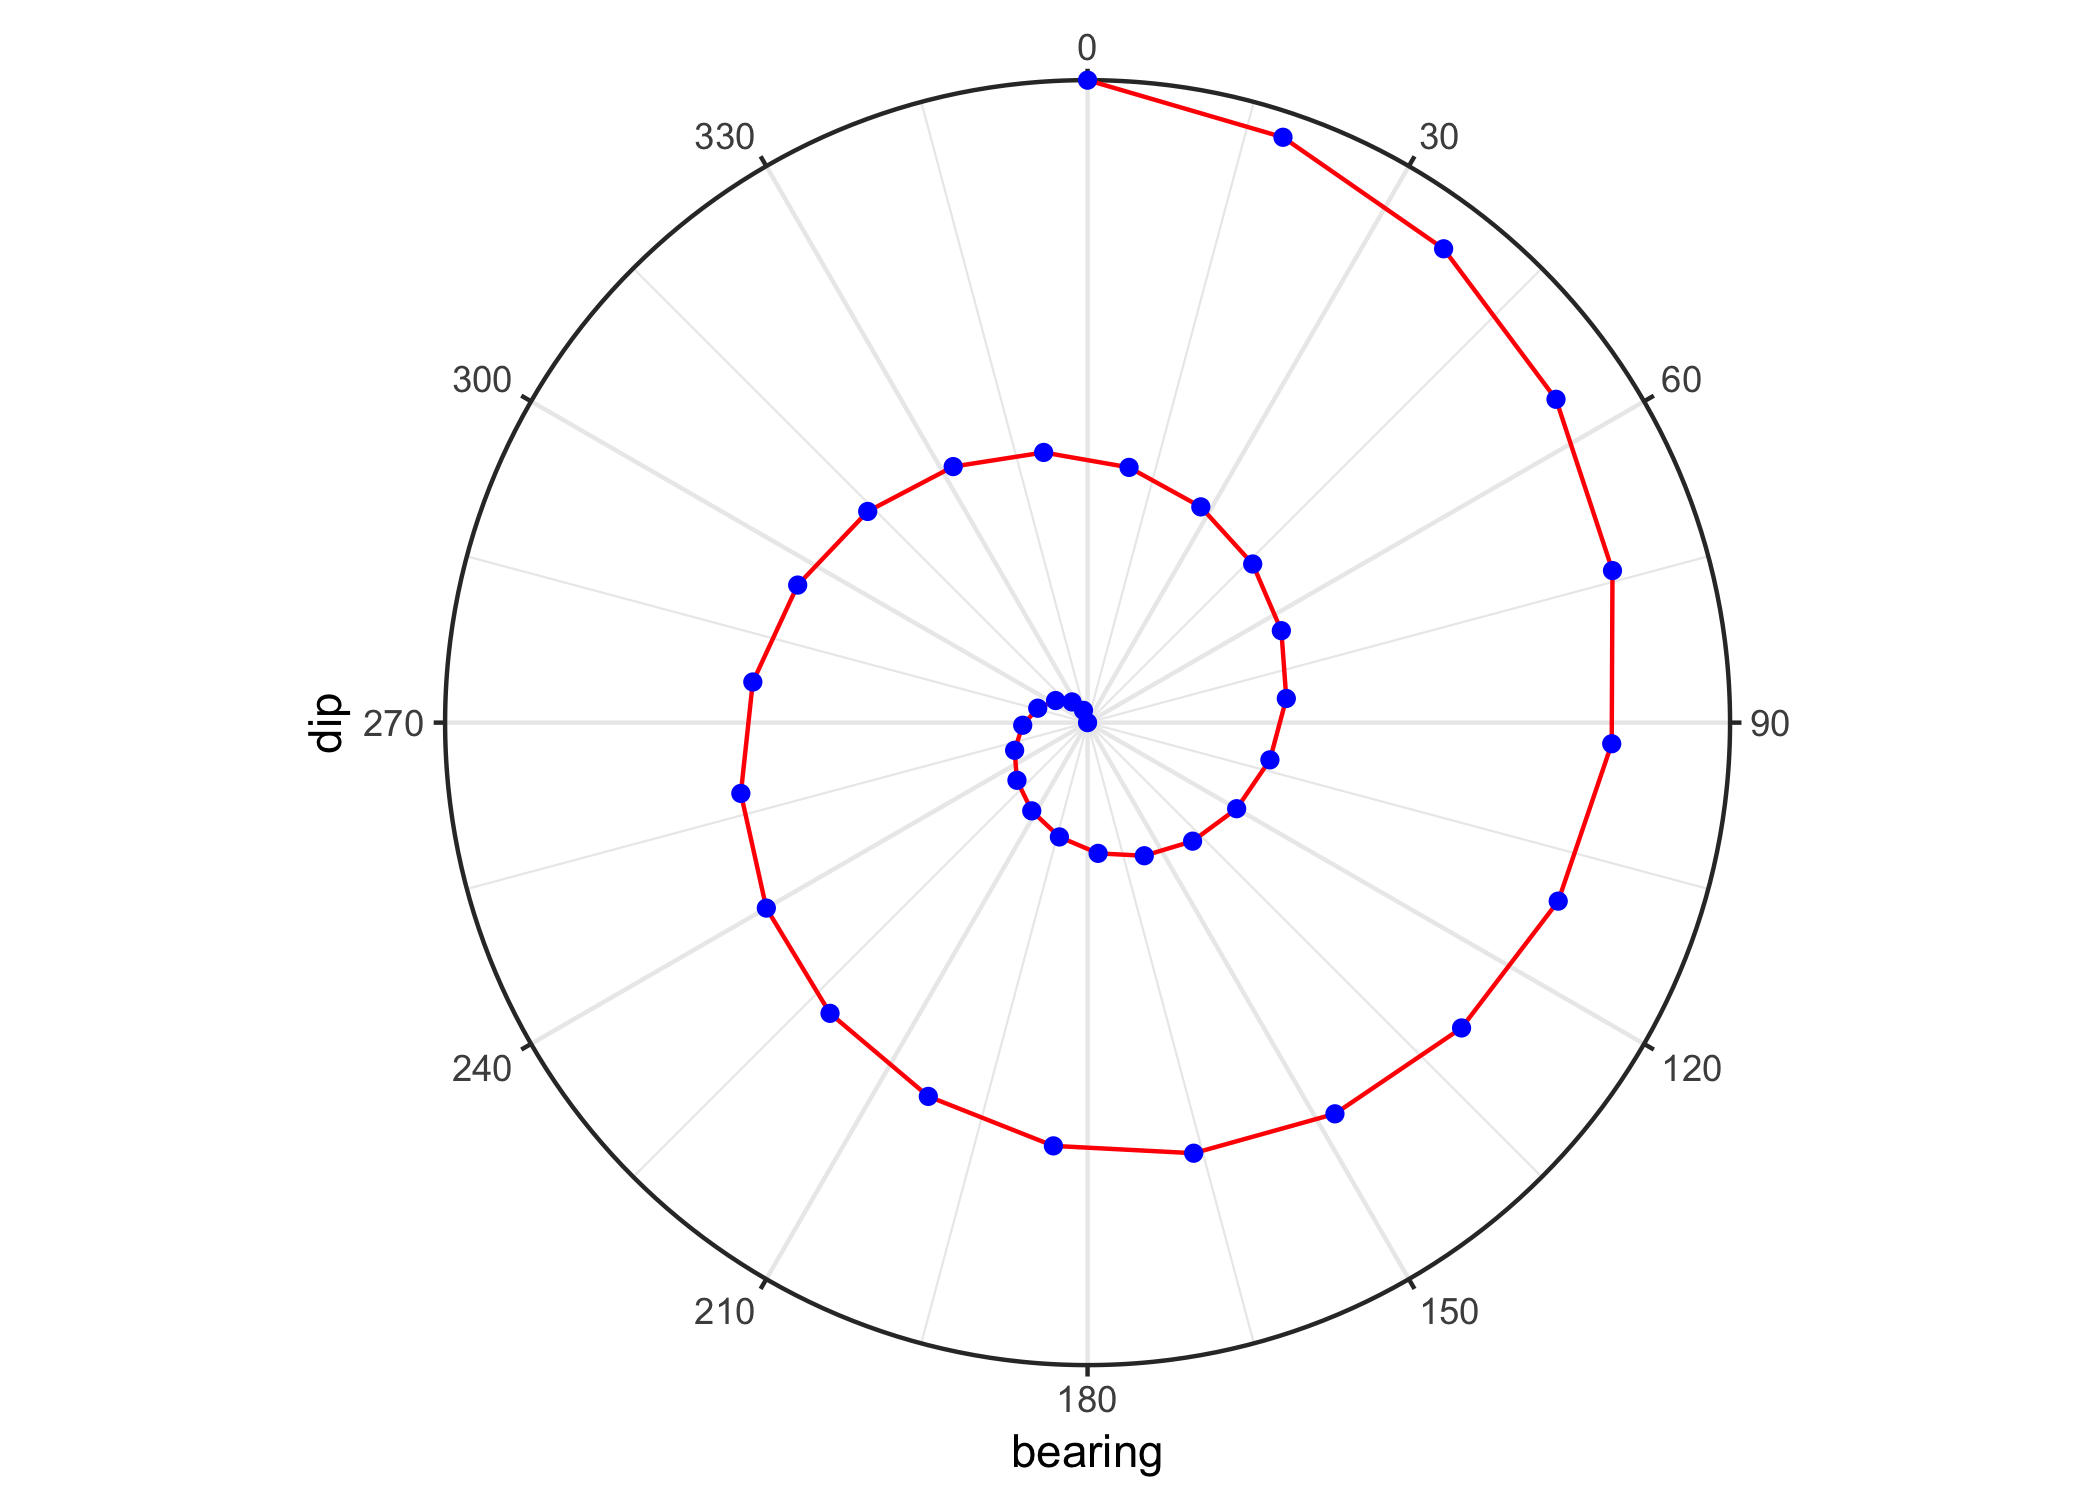
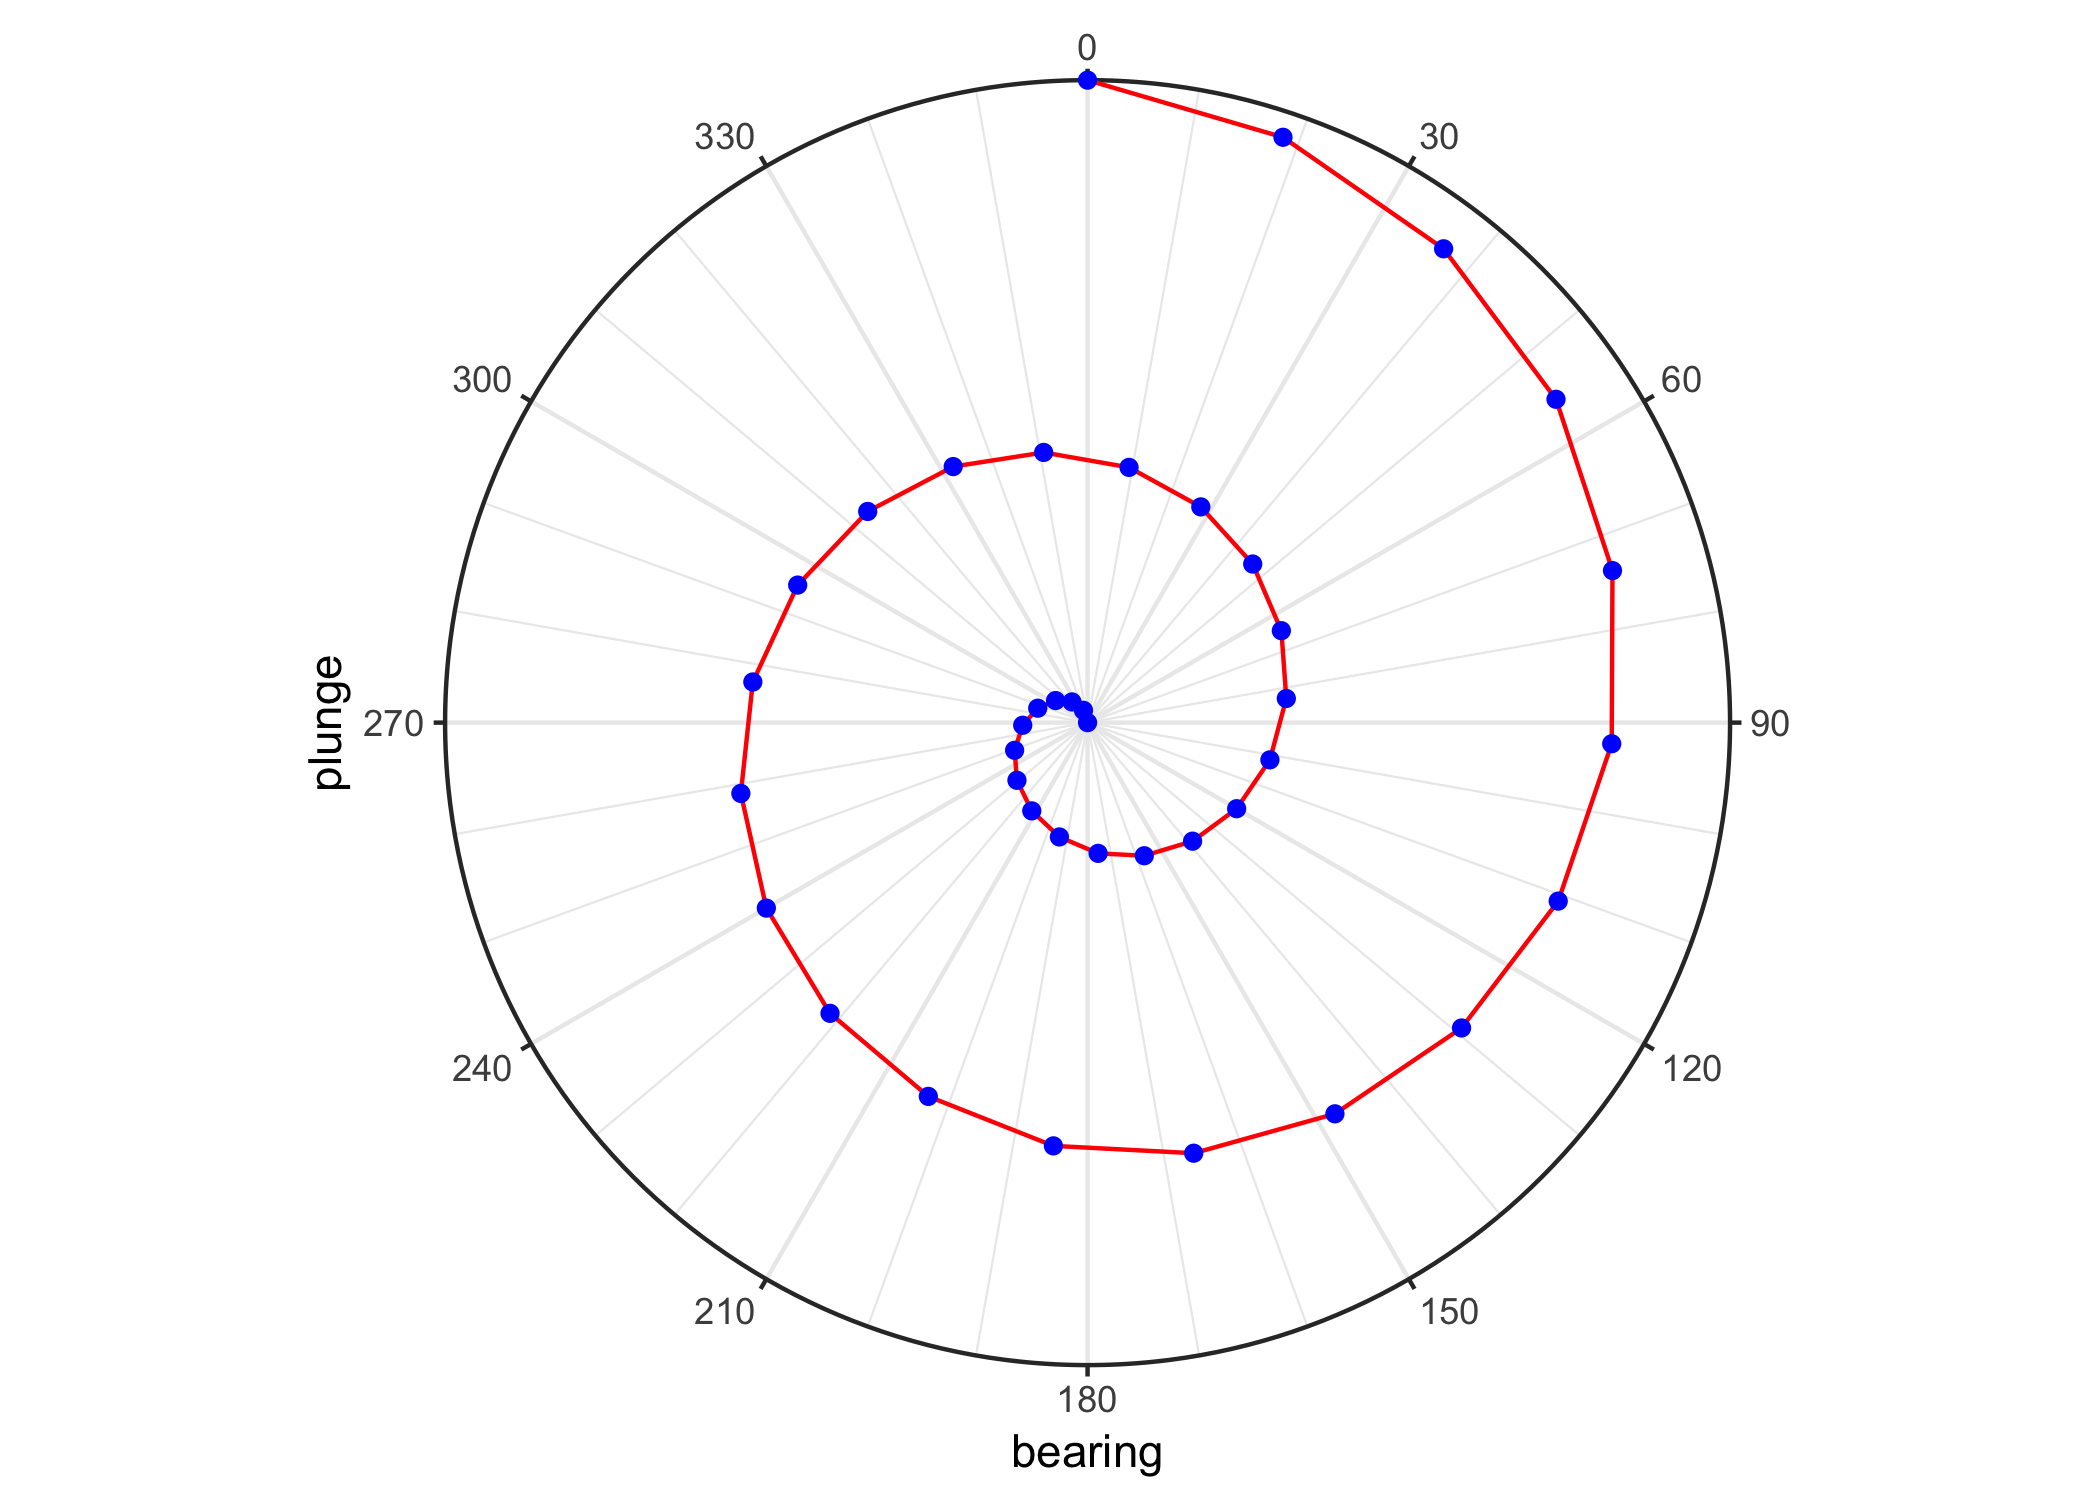
prettier x scales, rename dip to plunge

Changed region(s): [[0.4952, 0.46, 0.5571, 0.5213], [0.1548, 0.4293, 0.1857, 0.4907], [0.4952, 0.4293, 0.5262, 0.46]]

diff --git a/README.md b/README.md
@@ -28,14 +28,14 @@ library(ggstereo)
 
 df <- data.frame(
   bearing = seq(0, 4*180, length.out = 40),
-  dip = seq(0, 90, length.out = 40)
+  plunge = seq(0, 90, length.out = 40)
 )
 
-ggplot(df, aes(bearing, dip)) +
+ggplot(df, aes(bearing, plunge)) +
   geom_path(col = "red") +
   geom_point(col = "blue") +
-  coord_bearing_dip() +
-  scale_x_continuous(breaks = seq(0, 330, by = 30)) +
+  coord_bearing_plunge() +
+  scale_x_bearing() +
   theme_bw()
 #> Warning: Range calc not implemented
 ```
